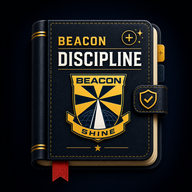
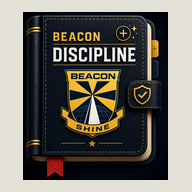
Add files via upload

diff --git a/app.js b/app.js
@@ -74,11 +74,61 @@ function addDays(iso, days) {
   dt.setUTCDate(dt.getUTCDate() + days);
   return `${dt.getUTCFullYear()}-${String(dt.getUTCMonth() + 1).padStart(2, "0")}-${String(dt.getUTCDate()).padStart(2, "0")}`;
 }
+function isWeekend(iso) {
+  const [y, m, d] = iso.split("-").map(Number);
+  const dow = new Date(Date.UTC(y, m - 1, d)).getUTCDay(); // 0 = Sunday, 6 = Saturday
+  return dow === 0 || dow === 6;
+}
+// Next school day after a given date, skipping weekends. Does not know about
+// public holidays or school-specific closure days — those need the manual
+// calendar override on day 2+ of a suspension.
+function nextSchoolDay(iso) {
+  let d = addDays(iso, 1);
+  while (isWeekend(d)) d = addDays(d, 1);
+  return d;
+}
+// Builds the default day-by-day date list for a new suspension: day 1 is
+// whatever start date was chosen, each following day defaults to the next
+// school day (Mon-Fri), skipping weekends automatically.
+function defaultDateList(startDate, days) {
+  const list = [startDate];
+  let cur = startDate;
+  for (let i = 1; i < days; i++) {
+    cur = nextSchoolDay(cur);
+    list.push(cur);
+  }
+  return list;
+}
+// Recomputes a form draft's date list when start date or duration changes,
+// while preserving any dates the teacher manually overrode for days that
+// still exist at the same position.
+function computeDraftDateList(draft) {
+  const wanted = draft.days || 1;
+  const startDate = draft.startDate || todayISO();
+  const existing = draft.dateList || [];
+  const fresh = defaultDateList(startDate, wanted);
+  if (existing[0] === startDate) {
+    for (let i = 1; i < Math.min(existing.length, fresh.length); i++) {
+      if (existing[i]) fresh[i] = existing[i];
+    }
+  }
+  return fresh;
+}
+// Returns the real list of dates a suspension covers. Uses the explicit
+// per-day dateList if present (weekend-aware, individually editable);
+// falls back to plain consecutive calendar days for older records saved
+// before this existed.
+function getDateList(s) {
+  if (Array.isArray(s.dateList) && s.dateList.length === s.days) return s.dateList;
+  return suspensionDateRange(s.startDate, s.days);
+}
 function suspensionStatus(s) {
+  const dates = getDateList(s);
   const today = todayISO();
-  const end = addDays(s.startDate, s.days);
-  if (today < s.startDate) return "Upcoming";
-  if (today < end) return "Active";
+  const first = dates[0];
+  const last = dates[dates.length - 1];
+  if (today < first) return "Upcoming";
+  if (today <= last) return "Active";
   return "Completed";
 }
 function suspensionDateRange(startDate, days) {
@@ -114,8 +164,7 @@ function diffText(oldObj, newObj, fields) {
 function studentsOnDate(type, dateISO) {
   return state.suspensions.filter((s) => {
     if (s.deleted || s.type !== type) return false;
-    const end = addDays(s.startDate, s.days);
-    return dateISO >= s.startDate && dateISO < end;
+    return getDateList(s).includes(dateISO);
   });
 }
 function renderDashboardBox(type, title, color) {
@@ -196,7 +245,7 @@ const state = {
   _newSuspType: "ISS",
   editingSuspensionId: null,
   expandedSuspId: null,
-  _suspFormDraft: { studentName: "", studentClass: "", startDate: "", days: 1, reason: "", venue: "", differentVenues: false, venues: {} },
+  _suspFormDraft: { studentName: "", studentClass: "", startDate: "", days: 1, reason: "", venue: "", differentVenues: false, venues: {}, dateList: [] },
   _linkedCaseId: null,
 
   saveError: false,
@@ -282,7 +331,7 @@ function downloadBackupFile() {
 // Bump this alongside the CACHE version in sw.js whenever you ship an update —
 // makes it easy to confirm (in the app footer, or a screenshot from a teacher)
 // exactly which version is actually running on a given device.
-const APP_VERSION = "1.15.1";
+const APP_VERSION = "1.16.0";
 const DELETE_PASSWORD = "shsm";
 
 function askDeletePassword() {
@@ -462,14 +511,14 @@ async function submitEditIncident(e) {
   }
 }
 
-function buildVenuesByDate(form, startDate, days) {
+function buildVenuesByDate(form, dateList) {
   const differentVenues = form.elements["differentVenues"]?.checked;
   const venuesByDate = {};
   if (differentVenues) {
     form.querySelectorAll(".dd-venue-input").forEach((el) => { venuesByDate[el.dataset.date] = el.value.trim(); });
   } else {
     const singleVenue = (form.elements["venue"]?.value || "").trim();
-    suspensionDateRange(startDate, days).forEach((d) => { venuesByDate[d] = singleVenue; });
+    dateList.forEach((d) => { venuesByDate[d] = singleVenue; });
   }
   return venuesByDate;
 }
@@ -484,14 +533,17 @@ async function submitNewSuspension(e) {
   const type = state._newSuspType;
   const reason = f.reason.value.trim();
   if (!studentName || !studentClass || !startDate || !days) return;
-  const venuesByDate = type === "ISS" ? buildVenuesByDate(f, startDate, days) : {};
+  const dateList = state._suspFormDraft.dateList && state._suspFormDraft.dateList.length === days
+    ? state._suspFormDraft.dateList
+    : defaultDateList(startDate, days);
+  const venuesByDate = type === "ISS" ? buildVenuesByDate(f, dateList) : {};
   state.saving = true;
   render();
   try {
     const now = Date.now();
     const caseId = state._linkedCaseId || null;
     await addDoc(collection(db, "suspensions"), {
-      studentName, studentClass, type, startDate, days, venuesByDate, reason,
+      studentName, studentClass, type, startDate, days, dateList, venuesByDate, reason,
       ...(caseId ? { caseId } : {}),
       loggedBy: teacherName(),
       loggedByUid: auth.currentUser?.uid || null,
@@ -507,7 +559,7 @@ async function submitNewSuspension(e) {
     state.showNewSuspForm = false;
     state._newSuspType = "ISS";
     state._linkedCaseId = null;
-    state._suspFormDraft = { studentName: "", studentClass: "", startDate: "", days: 1, reason: "", venue: "", differentVenues: false, venues: {} };
+    state._suspFormDraft = { studentName: "", studentClass: "", startDate: "", days: 1, reason: "", venue: "", differentVenues: false, venues: {}, dateList: [] };
     const venueSummary = Object.entries(venuesByDate).map(([d, v]) => `${formatDate(d)}: ${v || "—"}`).join(", ");
     logToSheet({
       recordType: "Suspension", action: "Created", studentName,
@@ -567,13 +619,14 @@ async function openLinkedSuspension(id) {
     }
   }
   const suggestedType = original.type === "ISS" ? "OSS" : "ISS";
-  const suggestedStart = addDays(original.startDate, original.days);
+  const originalDates = getDateList(original);
+  const suggestedStart = nextSchoolDay(originalDates[originalDates.length - 1]);
   state._linkedCaseId = caseId;
   state._newSuspType = suggestedType;
   state._suspFormDraft = {
     studentName: original.studentName, studentClass: original.studentClass,
     startDate: suggestedStart, days: 1, reason: original.reason || "",
-    venue: "", differentVenues: false, venues: {},
+    venue: "", differentVenues: false, venues: {}, dateList: [suggestedStart],
   };
   state.showNewSuspForm = true;
   render();
@@ -584,7 +637,7 @@ function openEditSuspension(id) {
   const s = state.suspensions.find((i) => i.id === id);
   if (s) {
     state._newSuspType = s.type;
-    const dates = suspensionDateRange(s.startDate, s.days);
+    const dates = getDateList(s);
     const venues = {};
     dates.forEach((d) => { venues[d] = venueForDate(s, d); });
     const uniqueVenues = [...new Set(Object.values(venues))];
@@ -593,7 +646,7 @@ function openEditSuspension(id) {
       studentName: s.studentName, studentClass: s.studentClass,
       startDate: s.startDate, days: s.days, reason: s.reason || "",
       venue: differentVenues ? "" : (uniqueVenues[0] || ""),
-      differentVenues, venues,
+      differentVenues, venues, dateList: dates,
     };
   }
   render();
@@ -608,13 +661,17 @@ async function submitEditSuspension(e) {
   const type = state._newSuspType;
   const startDate = f.startDate.value;
   const days = parseInt(f.days.value, 10);
-  const venuesByDate = type === "ISS" ? buildVenuesByDate(f, startDate, days) : {};
+  const dateList = state._suspFormDraft.dateList && state._suspFormDraft.dateList.length === days
+    ? state._suspFormDraft.dateList
+    : defaultDateList(startDate, days);
+  const venuesByDate = type === "ISS" ? buildVenuesByDate(f, dateList) : {};
   const updated = {
     studentName: f.studentName.value.trim(),
     studentClass: f.studentClass.value.trim(),
     type,
     startDate,
     days,
+    dateList,
     venuesByDate,
     reason: f.reason.value.trim(),
   };
@@ -627,6 +684,9 @@ async function submitEditSuspension(e) {
     { key: "days", label: "Duration (days)" },
     { key: "reason", label: "Reason" },
   ]);
+  const oldDateKey = JSON.stringify(getDateList(s));
+  const newDateKey = JSON.stringify(dateList);
+  if (oldDateKey !== newDateKey) changes.push("Day-by-day schedule updated");
   const oldVenueKey = JSON.stringify(s.venuesByDate || (s.venue ? { [s.startDate]: s.venue } : {}));
   const newVenueKey = JSON.stringify(venuesByDate);
   if (type === "ISS" && oldVenueKey !== newVenueKey) changes.push("Location schedule updated");
@@ -795,10 +855,10 @@ function renderCard(it) {
 function renderSuspCard(s) {
   const typeStyle = SUSP_TYPE_STYLE[s.type];
   const statusStyle = s.deleted ? { ink: "#8A8571", label: "REMOVED" } : SUSP_STATUS_STYLE[s._status];
-  const endDate = addDays(s.startDate, s.days);
+  const dates = getDateList(s);
+  const endDate = dates[dates.length - 1];
   const expanded = state.expandedSuspId === s.id;
   const history = s.history || [];
-  const dates = suspensionDateRange(s.startDate, s.days);
   const venues = dates.map((d) => venueForDate(s, d));
   const uniqueVenues = [...new Set(venues.filter(Boolean))];
   let venueSummary = "";
@@ -832,7 +892,7 @@ function renderSuspCard(s) {
         ${parts.length > 1 ? `
         <div class="dd-mono-muted" style="font-size:11px;text-transform:uppercase;margin-bottom:8px">Linked suspension — all parts</div>
         <div class="dd-followups" style="margin-bottom:16px">
-          ${parts.map((p, i) => `<div class="dd-followup"><div class="dd-followup-note">${i === partIndex ? "<b>" : ""}Part ${i + 1}: ${SUSP_TYPE_STYLE[p.type].label}, ${p.days} day${p.days > 1 ? "s" : ""}${i === partIndex ? "</b>" : ""}</div><div class="dd-followup-meta">${formatDate(p.startDate)} → ${formatDate(addDays(p.startDate, p.days))}</div></div>`).join("")}
+          ${parts.map((p, i) => `<div class="dd-followup"><div class="dd-followup-note">${i === partIndex ? "<b>" : ""}Part ${i + 1}: ${SUSP_TYPE_STYLE[p.type].label}, ${p.days} day${p.days > 1 ? "s" : ""}${i === partIndex ? "</b>" : ""}</div><div class="dd-followup-meta">${formatDate(p.startDate)} → ${formatDate(getDateList(p)[getDateList(p).length - 1])}</div></div>`).join("")}
         </div>` : ""}
         ${s.type === "ISS" ? `
         <div class="dd-mono-muted" style="font-size:11px;text-transform:uppercase;margin-bottom:8px">Location by day</div>
@@ -1017,11 +1077,11 @@ function renderNewForm() {
     </div>`;
 }
 
-function renderVenueRowsHtml(startDate, days, venuesMap) {
-  const dates = suspensionDateRange(startDate, days || 1);
-  return dates.map((d) => `
+function renderVenueRowsHtml(dateList, venuesMap) {
+  return dateList.map((d, i) => `
     <div class="dd-venue-row">
       <span class="dd-venue-date">${formatDate(d)}</span>
+      ${i > 0 ? `<input type="date" class="dd-venue-date-input" data-idx="${i}" value="${d}" title="Change this day's date" />` : ""}
       <input class="dd-input dd-venue-input" data-date="${d}" placeholder="e.g. Room 204" value="${escapeHtml(venuesMap[d] || "")}" />
     </div>`).join("");
 }
@@ -1036,7 +1096,7 @@ function renderLocationSection(d, idPrefix) {
     </label>
     ${d.differentVenues ? `
     <div class="dd-mono-muted" style="font-size:11px;margin:8px 0 6px">A student can be in a different room on different days.</div>
-    <div id="${idPrefix}-venue-rows">${renderVenueRowsHtml(d.startDate || todayISO(), d.days || 1, d.venues)}</div>` : ""}`;
+    <div id="${idPrefix}-venue-rows">${renderVenueRowsHtml(d.dateList && d.dateList.length ? d.dateList : defaultDateList(d.startDate || todayISO(), d.days || 1), d.venues)}</div>` : ""}`;
 }
 
 function renderNewSuspForm() {
@@ -1218,7 +1278,7 @@ function attachSuspListeners() {
     state.showNewSuspForm = true;
     state._newSuspType = "ISS";
     state._linkedCaseId = null;
-    state._suspFormDraft = { studentName: "", studentClass: "", startDate: todayISO(), days: 1, reason: "", venue: "", differentVenues: false, venues: {} };
+    state._suspFormDraft = { studentName: "", studentClass: "", startDate: todayISO(), days: 1, reason: "", venue: "", differentVenues: false, venues: {}, dateList: [todayISO()] };
     render();
   });
 
@@ -1272,13 +1332,27 @@ function attachSuspListeners() {
   form.querySelectorAll(".dd-venue-input").forEach((el) =>
     el.addEventListener("input", () => { state._suspFormDraft.venues[el.dataset.date] = el.value; }));
 
+  // Manual date override for day 2+ — changing one day's date doesn't shift any other day.
+  form.querySelectorAll(".dd-venue-date-input").forEach((el) =>
+    el.addEventListener("change", () => {
+      const idx = parseInt(el.dataset.idx, 10);
+      if (!state._suspFormDraft.dateList || !state._suspFormDraft.dateList.length) {
+        state._suspFormDraft.dateList = computeDraftDateList(state._suspFormDraft);
+      }
+      state._suspFormDraft.dateList[idx] = el.value;
+      render();
+    }));
+
   const diffVenuesEl = form.elements["differentVenues"];
   if (diffVenuesEl) {
     diffVenuesEl.addEventListener("change", () => {
       state._suspFormDraft.differentVenues = diffVenuesEl.checked;
       if (diffVenuesEl.checked) {
+        const dl = state._suspFormDraft.dateList && state._suspFormDraft.dateList.length
+          ? state._suspFormDraft.dateList
+          : computeDraftDateList(state._suspFormDraft);
         // seed each day's row with the single location already typed, so switching to per-day mode doesn't blank everything out
-        suspensionDateRange(state._suspFormDraft.startDate || todayISO(), state._suspFormDraft.days || 1).forEach((dt) => {
+        dl.forEach((dt) => {
           if (!state._suspFormDraft.venues[dt]) state._suspFormDraft.venues[dt] = state._suspFormDraft.venue;
         });
       }
@@ -1291,6 +1365,7 @@ function attachSuspListeners() {
   const onDateOrDaysChange = () => {
     state._suspFormDraft.startDate = startDateEl.value;
     state._suspFormDraft.days = parseInt(daysEl.value, 10) || 1;
+    state._suspFormDraft.dateList = computeDraftDateList(state._suspFormDraft);
     render();
   };
   if (startDateEl) startDateEl.addEventListener("change", onDateOrDaysChange);

diff --git a/style.css b/style.css
@@ -136,7 +136,7 @@ input[type="date"].dd-input, input[type="number"].dd-input {
 .dd-dash-col { min-width: 0; overflow: hidden; }
 .dd-dash-col-label { font-size: 10px; text-transform: uppercase; letter-spacing: 0.05em; margin-bottom: 4px; }
 .dd-dash-count { font-size: 26px; font-weight: 700; line-height: 1; margin-bottom: 6px; }
-.dd-dash-list { max-height: 130px; overflow-y: auto; display: flex; flex-direction: column; gap: 3px; }
+.dd-dash-list { min-height: 130px; display: flex; flex-direction: column; gap: 3px; }
 .dd-dash-row { display: flex; justify-content: space-between; gap: 6px; font-family: 'IBM Plex Sans', sans-serif; font-size: 12px; color: #1B2A41; min-width: 0; }
 .dd-dash-name { overflow: hidden; text-overflow: ellipsis; white-space: nowrap; min-width: 0; flex: 1; }
 .dd-dash-class { font-family: 'IBM Plex Mono', monospace; font-size: 11px; color: #8A8571; flex: 0 0 auto; }
@@ -146,6 +146,9 @@ input[type="date"].dd-input, input[type="number"].dd-input {
 .dd-dash-location { font-family: 'IBM Plex Mono', monospace; font-size: 11px; color: #4C6B8A; font-weight: 600; margin-top: 6px; overflow: hidden; text-overflow: ellipsis; white-space: nowrap; }
 .dd-dash-location:first-child { margin-top: 0; }
 
-.dd-venue-row { display: flex; align-items: center; gap: 8px; margin-bottom: 6px; }
+.dd-venue-row { display: flex; align-items: center; gap: 8px; margin-bottom: 6px; flex-wrap: wrap; }
 .dd-venue-date { font-family: 'IBM Plex Mono', monospace; font-size: 11px; color: #8A8571; width: 82px; flex-shrink: 0; }
-.dd-venue-row .dd-venue-input { flex: 1; }
+.dd-venue-row .dd-venue-input { flex: 1; min-width: 100px; }
+.dd-venue-date-input { width: 34px; height: 30px; padding: 0; border: 1px solid #C9C4B4; border-radius: 3px; background: #fff; flex-shrink: 0; color: transparent; }
+.dd-venue-date-input::-webkit-calendar-picker-indicator { position: absolute; opacity: 1; cursor: pointer; }
+.dd-venue-date-input { position: relative; }

diff --git a/sw.js b/sw.js
@@ -1,4 +1,4 @@
-const CACHE = "discipline-diary-v16";
+const CACHE = "discipline-diary-v17";
 const ASSETS = ["./", "./index.html", "./style.css", "./app.js", "./manifest.json", "./icons/icon-192.png", "./icons/icon-512.png"];
 
 self.addEventListener("install", (e) => {

diff --git a/README.md b/README.md
@@ -96,6 +96,17 @@ every student assigned there listed underneath (name, then class). Within
 Next 2 Days, this grouping happens separately for each date. Out-of-School
 Suspension has no location concept, so its columns stay a flat list.
 
+## Weekend-aware scheduling
+
+When a suspension spans more than one day, day 2 onward defaults to the
+**next school day** — weekends are skipped automatically (a suspension
+starting Friday continues Monday, not Saturday). This only knows about
+weekends, not public holidays or school-specific closure days, since the
+app has no calendar data source for those. For day 2 and beyond, a small
+date field sits next to each day's location — tap it to override that
+day's date manually for holidays or any other exception. Changing one
+day's date doesn't shift any other day.
+
 ## Hybrid (linked) suspensions
 
 For a suspension that's part OSS and part ISS (e.g. 3 days out of school
@@ -211,5 +222,8 @@ about a minute of committing — no build or deploy command needed.
 
 ## Icons
 
+The current icon crops tightly to the book artwork and places it on a
+parchment (#E3E1D6) background matching the app's own color palette, so the
+dark navy book stands out clearly rather than blending into a dark backdrop.
 Swap `icons/icon-192.png` and `icons/icon-512.png` for your school's own
 branding any time — same filenames, same sizes.
